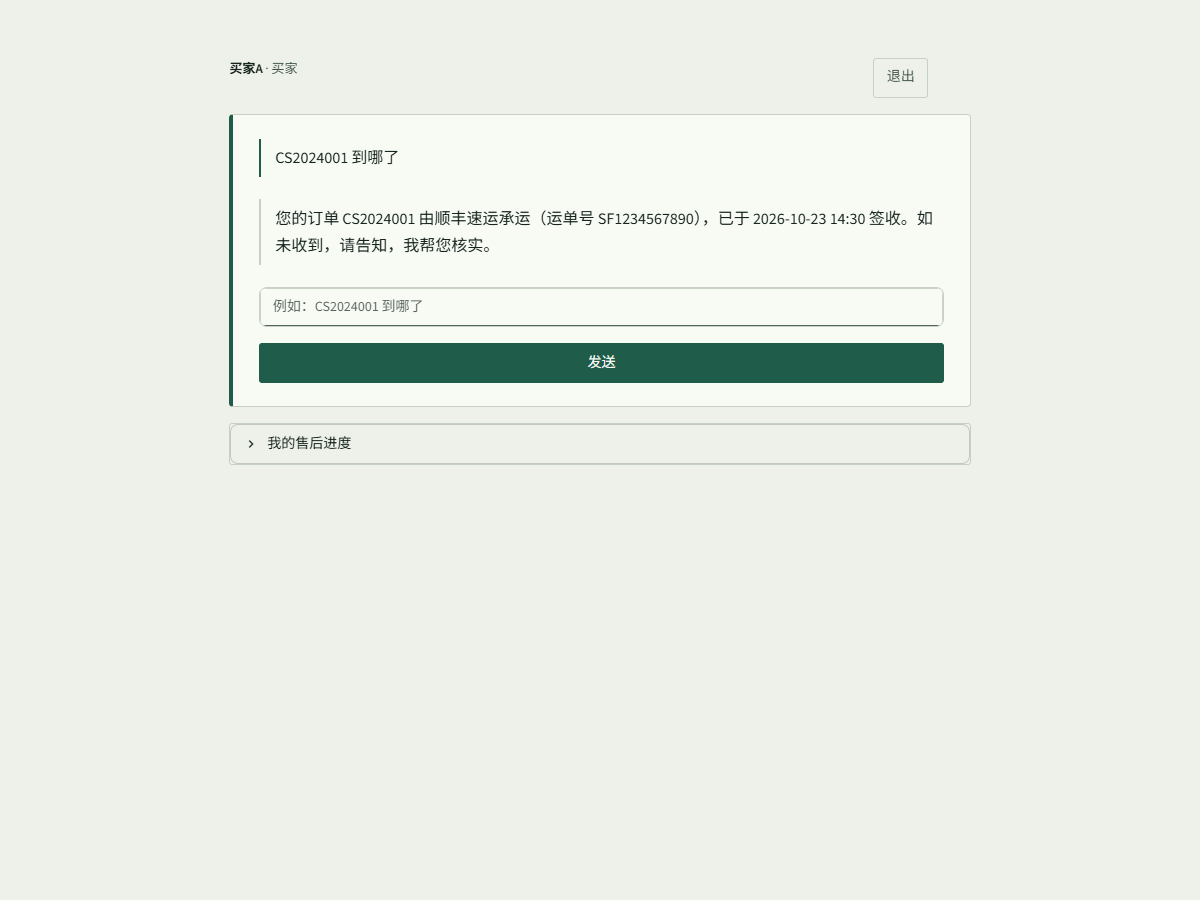
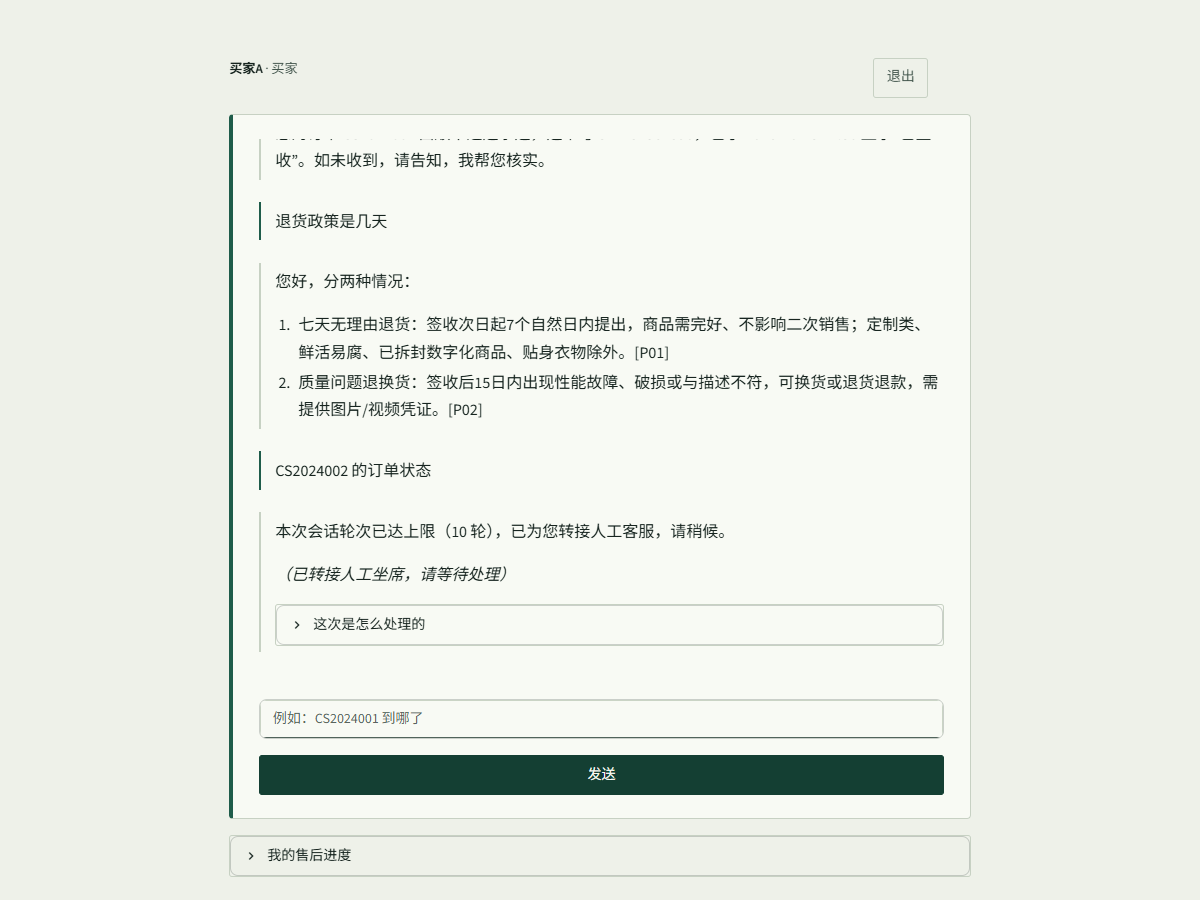
feat(ui): 对话区固定高度，输入框不再被推走

diff --git a/python-agent/ui/app.py b/python-agent/ui/app.py
@@ -192,9 +192,25 @@ def after_sales_panel() -> None:
     )
 
 
+def scroll_to_bottom() -> None:
+    """消息区固定高度后，新消息要自动滚到底（纯前端小脚本）。"""
+    st.components.v1.html(
+        """
+        <script>
+        const doc = window.parent.document;
+        const items = doc.querySelectorAll('[data-testid="stChatMessage"]');
+        if (items.length) {
+          items[items.length - 1].scrollIntoView({block: "end"});
+        }
+        </script>
+        """,
+        height=0,
+    )
+
+
 def chat_view() -> None:
     with st.container(key="app_card"):
-        box = st.container()
+        box = st.container(height=520, border=False)
         with box:
             if not st.session_state.messages:
                 st.caption("直接问订单、物流或售后。")
@@ -204,16 +220,18 @@ def chat_view() -> None:
                     if message.get("details"):
                         with st.expander("这次是怎么处理的"):
                             reply_details(message["details"])
+        scroll_to_bottom()
 
-        text = st.text_input(
-            "输入问题",
-            key=f"chat_input_{st.session_state.chat_seq}",
-            placeholder="例如：CS2024001 到哪了",
-            label_visibility="collapsed",
-        )
-        if st.button("发送", type="primary", use_container_width=True) and text.strip():
-            send_message(text)
-            st.rerun()
+        with st.container(key="composer"):
+            text = st.text_input(
+                "输入问题",
+                key=f"chat_input_{st.session_state.chat_seq}",
+                placeholder="例如：CS2024001 到哪了",
+                label_visibility="collapsed",
+            )
+            if st.button("发送", type="primary", use_container_width=True) and text.strip():
+                send_message(text)
+                st.rerun()
 
         if st.session_state.notice:
             st.success(st.session_state.notice)

diff --git a/python-agent/ui/theme.py b/python-agent/ui/theme.py
@@ -93,6 +93,15 @@ p, li, label {{ line-height: 1.7; }}
 [data-testid="stChatMessageAvatarAssistant"] {{ display: none !important; }}
 [data-testid="stChatMessageContent"] {{ width: 100%; }}
 
+/* 对话区内部滚动，输入框固定在卡片底部 */
+.st-key-composer {{
+  position: sticky;
+  bottom: 0;
+  background: var(--panel);
+  padding-top: .55rem;
+  z-index: 5;
+}}
+
 /* 控件 */
 .stButton button, [data-testid="stFormSubmitButton"] button {{
   border-radius: 3px;
